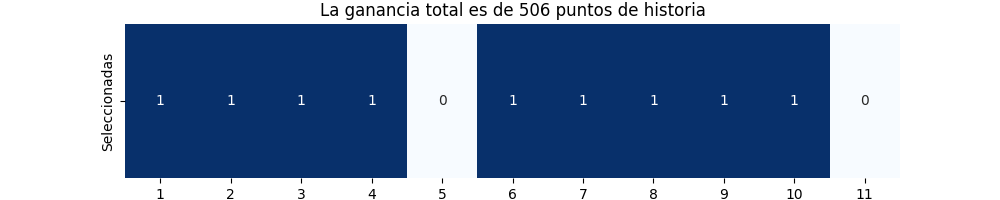
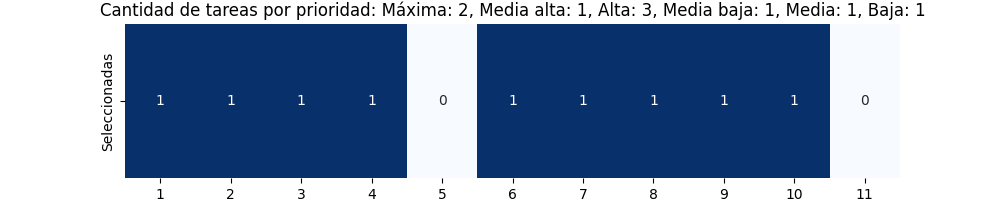
pequenho cambio en logica de como medir los saltos de categoria

Changed region(s): [[0.093, 0.0, 0.93, 0.09]]

diff --git a/ejercicio_1_2.py b/ejercicio_1_2.py
@@ -15,13 +15,13 @@ tareas = {
 }
 
 prioridad_numero = {
-    "Mínima": 1 * len(tareas),
-    "Baja": 2 * len(tareas),
-    "Media baja": 3 * len(tareas),
-    "Media": 4 * len(tareas),
-    "Media alta": 5 * len(tareas),
-    "Alta": 6 * len(tareas),
-    "Máxima": 7 * len(tareas)
+    "Mínima": len(tareas)**1,
+    "Baja": len(tareas)**2,
+    "Media baja": len(tareas)**3,
+    "Media": len(tareas)**4,
+    "Media alta": len(tareas)**5,
+    "Alta": len(tareas)**6,
+    "Máxima": len(tareas)**7,
 }
 
 for k, v in tareas.items():
@@ -55,11 +55,18 @@ for j in tareas_a_realizar:
         sum(Model.x[i, j] for i in desarrolladores_disponibles) <= 1)
 
 SolverFactory('glpk').solve(Model)
-total_ganancia = 0
-for i in desarrolladores_disponibles:
-    for j in tareas_a_realizar:
-        if Model.x[i, j]() == 1:
-            total_ganancia += tareas[j]["prioridad_numero"]
-
+total_task_per_priority = {}
+for i in tareas_a_realizar:
+    for j in desarrolladores_disponibles:
+        if Model.x[j, i]() == 1:
+            if tareas[i]["prioridad"] in total_task_per_priority:
+                total_task_per_priority[tareas[i]["prioridad"]] += 1
+            else:
+                total_task_per_priority[tareas[i]["prioridad"]] = 1
+title = 'Cantidad de tareas por prioridad: '
+texts = []
+for k, v in total_task_per_priority.items():
+    texts.append(f'{k}: {v}')
+title += ', '.join(texts)
 plot_assignment_heatmap(Model, list(
-    desarrolladores_disponibles), list(tareas_a_realizar), title=f'La ganancia total es de {total_ganancia} puntos de historia', file='ejercicio_1_2.png')
+    desarrolladores_disponibles), list(tareas_a_realizar), title=title, file='ejercicio_1_2.png')

diff --git a/ejercicio_1_1.py b/ejercicio_1_1.py
@@ -17,13 +17,13 @@ tareas = {
 }
 
 prioridad_numero = {
-    "Mínima": 1 * len(tareas),
-    "Baja": 2 * len(tareas),
-    "Media baja": 3 * len(tareas),
-    "Media": 4 * len(tareas),
-    "Media alta": 5 * len(tareas),
-    "Alta": 6 * len(tareas),
-    "Máxima": 7 * len(tareas)
+    "Mínima": len(tareas)**1,
+    "Baja": len(tareas)**2,
+    "Media baja": len(tareas)**3,
+    "Media": len(tareas)**4,
+    "Media alta": len(tareas)**5,
+    "Alta": len(tareas)**6,
+    "Máxima": len(tareas)**7,
 }
 
 for k, v in tareas.items():
@@ -48,12 +48,17 @@ Model.story_points_constraint = Constraint(expr=sum(
 
 SolverFactory('glpk').solve(Model)
 
-total_ganancia = 0
+total_task_per_priority = {}
 for i in tareas_a_realizar:
     if Model.x[i]() == 1:
-        total_ganancia += tareas[i]["prioridad_numero"]
+        total_task_per_priority[tareas[i]["prioridad"]] = total_task_per_priority.get(
+            tareas[i]["prioridad"], 0) + 1
+title = 'Cantidad de tareas por prioridad: '
+texts = []
+for k, v in total_task_per_priority.items():
+    texts.append(f'{k}: {v}')
+title += ', '.join(texts)
 
-text = f'La ganancia total es de {total_ganancia} puntos de historia'
 
 plot_assignment_heatmap2(
-    Model, tareas, title=f'La ganancia total es de {total_ganancia} puntos de historia', filename='ejercicio_1_1.png')
+    Model, tareas, title=title, filename='ejercicio_1_1.png')
